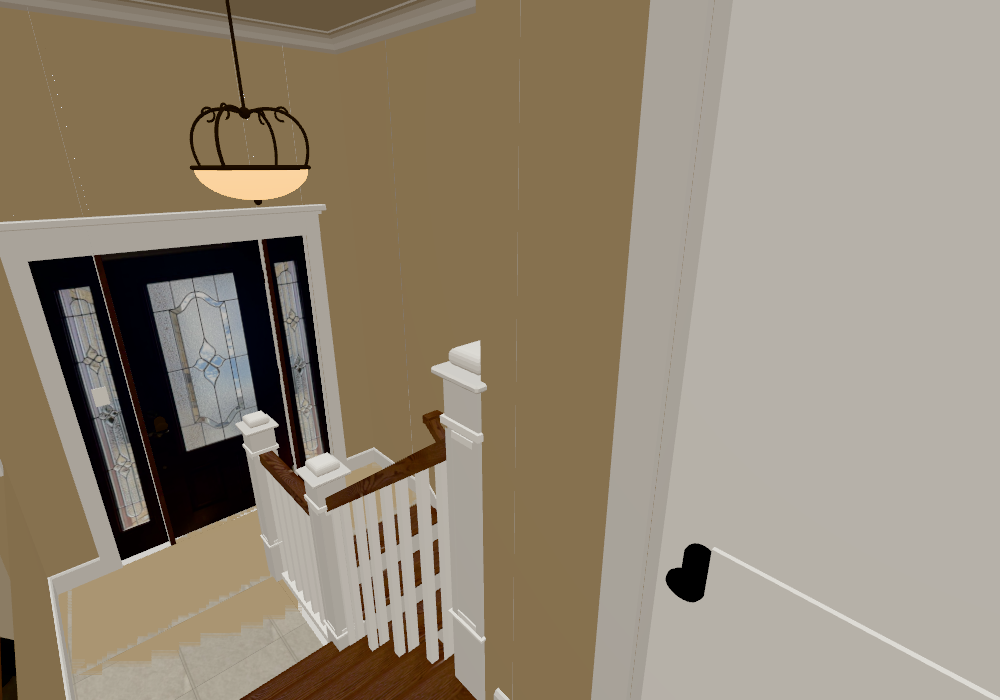
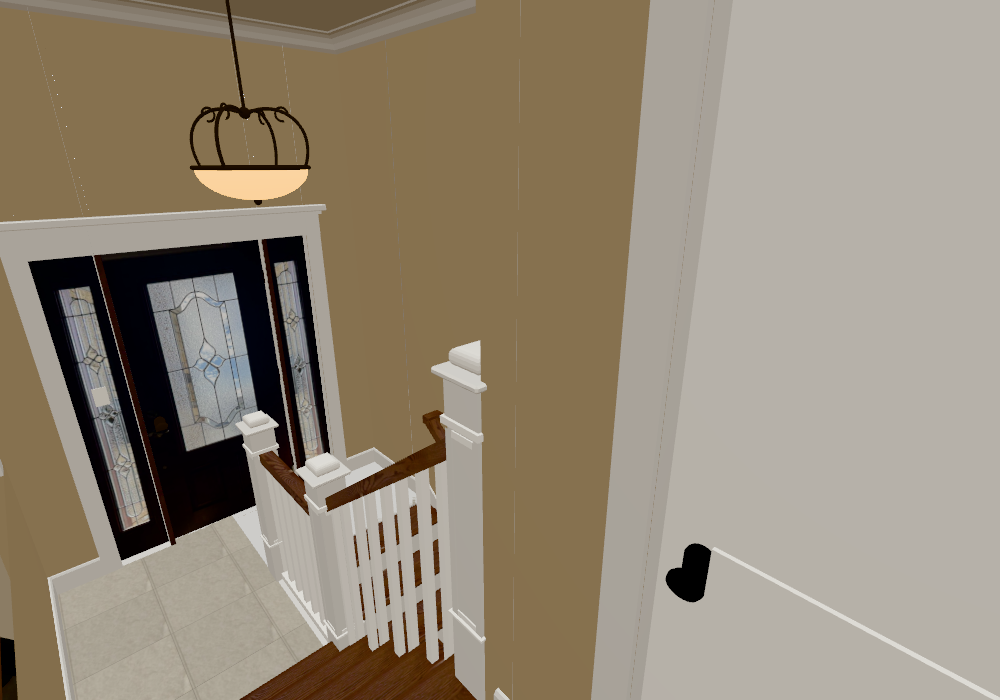
Stair closet: long tiled storage room under the front stairs
The closet under the top flight now runs on under the entry landing to the
front wall (the solid under the landing is cut back to the bottom flight).
Grey 12x12 tile (new tileGrey) with a marble threshold, white walls and
ceilings: the flight's sloped underside, then a flat ceiling under the
landing. A foundation ledge along the front wall, a framed wire-shelving
alcove with a bifold door (one pair folded open), a black steel cabinet
clear of the door swing, and a small white flush dome light (new 'flush'
kind). The knee wall gets a triangular opening at its foot, and the bottom
flight a sloped underside, so storage under that flight shows through.

Walls shared with the stairwell take a new yCuts split so they stay tan
above the landing; the closet is listed before the stairwell in ROOMS so
the space below the landing reads as the closet.

Changed region(s): [[0.062, 0.72, 0.31, 0.96], [0.341, 0.66, 0.434, 0.75]]

diff --git a/js/house.js b/js/house.js
@@ -34,6 +34,7 @@ export function buildHouse() {
   railings(b);
   fixtures(b, lamps);
   kitchen(b);
+  stairCloset(b);
   furniture(b, mirrors, glass);
   wallArt(b);
   exterior(b);
@@ -88,7 +89,7 @@ function walls(b, glass, sliders) {
       const covering = w.ops.filter(op => op.a0 <= mid && op.a1 >= mid);
       let ranges = [w.y.slice()];
       for (const op of covering) ranges = subtract(ranges, op.b0, op.b1);
-      for (const cut of [L.MAIN - 0.1, L.MAIN + 3]) ranges = ranges.flatMap(([s, e]) => (s < cut - 1e-6 && e > cut + 1e-6 ? [[s, cut], [cut, e]] : [[s, e]]));
+      for (const cut of [L.MAIN - 0.1, L.MAIN + 3, ...(w.yCuts || [])]) ranges = ranges.flatMap(([s, e]) => (s < cut - 1e-6 && e > cut + 1e-6 ? [[s, cut], [cut, e]] : [[s, e]]));
       for (const [s, e0] of ranges) {
         if (e0 - s < 1e-3) continue;
         // a free wall end runs on by half its thickness to close the corner; where another wall carries
@@ -470,8 +471,8 @@ function floorsAndCeilings(b, glass) {
   b.poly([[kx, F, L.FU.z1], [28.8, F, L.FU.z1], [28.8, F, L.FD.z1], [kx, F, L.FD.z1]], 'tileLanding', { n: [0, 1, 0] });
   b.poly([[20.8, F, L.FD.z1], [28.8, F, L.FD.z1], [28.8, F, 30], [20.8, F, 30]], 'tileLanding', { n: [0, 1, 0] });
   b.poly([[35, L.MID, -8], [42.2, L.MID, -8], [42.2, L.MID, -4.4], [35, L.MID, -4.4]], 'carpetBeige', { n: [0, 1, 0] });
-  b.poly([[20.8, L.LOW, 19.5], [24.8, L.LOW, 19.5], [24.8, L.LOW, 20], [20.8, L.LOW, 20]], 'carpetBeige', { n: [0, 1, 0] });
-  b.poly([[24.8, L.LOW, 19.5], [28.8, L.LOW, 19.5], [28.8, L.LOW, L.FU.z1], [24.8, L.LOW, L.FU.z1]], 'carpetBeige', { n: [0, 1, 0] });
+  b.poly([[20.8, L.LOW, 19.5], [24.8, L.LOW, 19.5], [24.8, L.LOW, L.FD.z1], [20.8, L.LOW, L.FD.z1]], 'tileGrey', { n: [0, 1, 0] });   // under the bottom flight
+  b.poly([[24.8, L.LOW, 19.5], [28.8, L.LOW, 19.5], [28.8, L.LOW, 29.75], [24.8, L.LOW, 29.75]], 'tileGrey', { n: [0, 1, 0] });   // stair closet
   b.poly([[20.8, L.LOW_CEIL, 19.5], [28.8, L.LOW_CEIL, 19.5], [28.8, L.LOW_CEIL, 20], [20.8, L.LOW_CEIL, 20]], 'ceiling', { n: [0, -1, 0] });
   // exposed edges of the main floor at the stair openings
   b.poly([[20.8, L.LOW_CEIL - 0.05, 20], [24.8, L.LOW_CEIL - 0.05, 20], [24.8, L.MAIN, 20], [20.8, L.MAIN, 20]], 'paint:' + L.PAINT.tan, { n: [0, 0, 1] });
@@ -618,6 +619,7 @@ function switchPlates(b) {
 const SOFFITS = {
   frontUp: z => L.FRONT - 0.7 + (L.FU.z1 - z) / (L.FU.z1 - L.FU.z0) * (L.MAIN - 1.25 - (L.FRONT - 0.7)),
   rearUp: z => L.MID - 0.7 + (z + 4.4) / 4.4 * (L.MAIN - 1.25 - (L.MID - 0.7)),
+  frontDown: z => L.LOW + (z - L.FD.z0 - 1.6) * (L.FRONT - L.LOW) / (L.FD.z1 - L.FD.z0),   // meets the floor under the third step
 };
 // Steps of a flight: tread top, z extent and the edge toward the high end.
 function flightSteps(f) {
@@ -649,7 +651,7 @@ function stairs(b) {
       const zb = za + d;
       const nose = upAtZ1 ? -0.09 : 0.09;          // nosing overhangs toward the low end
       const zFront = upAtZ1 ? za : zb;
-      const base = soffit ? soffit(upAtZ1 ? zb : za) : 0;
+      const base = soffit ? Math.max(0, soffit(upAtZ1 ? zb : za)) : 0;
       b.box(x0, x1, base, top - 0.09, Math.min(za, zb), Math.max(za, zb), riserMat, { skip: ['ny', 'py'], dens: 6 });
       const t0 = Math.min(za, zb, zFront + nose), t1 = Math.max(za, zb, zFront + nose);
       // open side: tread ends run 0.05 past the stringer and show their end grain
@@ -658,8 +660,10 @@ function stairs(b) {
       b.box(tx0, tx1, top - 0.09, top, t0, t1, treadMat, { skip: tSkip, dens: 7, uv: f.finish === 'oak' ? 'face' : undefined, bevel: 0.035 });
     }
     if (soffit) {
-      const zLow = upAtZ1 ? z0 : z1, zHigh = upAtZ1 ? z1 : z0;
-      b.poly([[fx0, soffit(zLow), zLow], [fx1, soffit(zLow), zLow], [fx1, soffit(zHigh), zHigh], [fx0, soffit(zHigh), zHigh]], 'paint:' + L.PAINT.closet, { n: [0, -1, 0] });
+      let zLow = upAtZ1 ? z0 : z1;
+      const zHigh = upAtZ1 ? z1 : z0;
+      if (soffit(zLow) < 0) zLow += (zHigh - zLow) * -soffit(zLow) / (soffit(zHigh) - soffit(zLow));   // from where it meets the floor
+      b.poly([[fx0, soffit(zLow), zLow], [fx1, soffit(zLow), zLow], [fx1, soffit(zHigh), zHigh], [fx0, soffit(zHigh), zHigh]], 'paint:' + (f.under || L.PAINT.closet), { n: [0, -1, 0] });
     }
   }
   // knee walls under the open side of a flight: the wall stops under each riser block (the treads
@@ -689,23 +693,31 @@ function stairs(b) {
     const fl = L.FLIGHTS.find(f => f.id === k.flight);
     const soff = SOFFITS[fl.id];
     const lo = Math.min(fl.h0, fl.h1), hi = Math.max(fl.h0, fl.h1), hiZ = fl.h0 > fl.h1 ? fl.r[2] : fl.r[3];
-    const segs = flightSteps(fl).map(s => ({ za: s.za, zb: s.zb, top: soff(s.upper), band: true }));
+    let segs = flightSteps(fl).map(s => ({ za: s.za, zb: s.zb, top: soff(s.upper), band: true }));
     if (k.z0 < fl.r[2] - 1e-6) segs.push({ za: k.z0, zb: fl.r[2], top: Math.abs(fl.r[2] - hiZ) < 1e-6 ? hi : lo, cap: true });
     if (k.z1 > fl.r[3] + 1e-6) segs.push({ za: fl.r[3], zb: k.z1, top: Math.abs(fl.r[3] - hiZ) < 1e-6 ? hi : lo, cap: true });
-    const T = OPEN_W;
+    const T = OPEN_W, h = k.hole;
+    // a triangular opening at the wall's foot: its top edge rises from h.z0 at the floor and drops back at h.z1
+    const bot = h ? (g, z) => (g.za >= h.z0 - 1e-6 && g.zb <= h.z1 + 1e-6 ? (z - h.z0) * h.slope : 0) : () => 0;
+    if (h) for (const zc of [h.z0, h.z1]) segs = segs.flatMap(g => (zc > g.za + 1e-6 && zc < g.zb - 1e-6 ? [{ ...g, zb: zc }, { ...g, za: zc }] : [g]));
     for (const s of [-1, 1]) {
       const x = k.x + s * T;
       for (const g of segs) {
         const r = roomAt(x + s * 0.3, (g.za + g.zb) / 2, 1);
-        const paint = paintFor(r, 1);
+        const paint = paintFor(r, 1), ba = bot(g, g.za), bb = bot(g, g.zb);
         if (g.band && s === fl.open) {
           const ya = Math.min(soff(g.za) - 0.6, g.top), yb = Math.min(soff(g.zb) - 0.6, g.top);
-          b.poly([[x, 0, g.za], [x, 0, g.zb], [x, yb, g.zb], [x, ya, g.za]], paint, { n: [s, 0, 0] });
+          b.poly([[x, ba, g.za], [x, bb, g.zb], [x, yb, g.zb], [x, ya, g.za]], paint, { n: [s, 0, 0] });
           b.poly([[x, ya, g.za], [x, yb, g.zb], [x, g.top, g.zb], [x, g.top, g.za]], TRIM, { n: [s, 0, 0] });
         } else {
-          b.poly([[x, 0, g.za], [x, 0, g.zb], [x, g.top, g.zb], [x, g.top, g.za]], paint, { n: [s, 0, 0] });
+          b.poly([[x, ba, g.za], [x, bb, g.zb], [x, g.top, g.zb], [x, g.top, g.za]], paint, { n: [s, 0, 0] });
         }
       }
+    }
+    if (h) {
+      const yt = (h.z1 - h.z0) * h.slope, mat = paintFor(roomAt(k.x + 0.5, (h.z0 + h.z1) / 2, 1), 1);
+      b.poly([[k.x - T, 0, h.z0], [k.x + T, 0, h.z0], [k.x + T, yt, h.z1], [k.x - T, yt, h.z1]], mat, { n: [0, -1, h.slope] });
+      b.poly([[k.x - T, 0, h.z1], [k.x + T, 0, h.z1], [k.x + T, yt, h.z1], [k.x - T, yt, h.z1]], mat, { n: [0, 0, -1] });
     }
     for (const g of segs) {
       if (g.cap) b.poly([[k.x - T, g.top, g.za], [k.x + T, g.top, g.za], [k.x + T, g.top, g.zb], [k.x - T, g.top, g.zb]], TRIM, { n: [0, 1, 0] });
@@ -865,6 +877,13 @@ function fixtures(b, lamps) {
         b.prim(new THREE.CylinderGeometry(0.11, 0.11, 0.01, 20), 'lampGlow', hx, hy + dy * 0.23, z + dz * 0.23, 0, { rx: -3 * Math.PI / 4, bake: false });
         lamps.push({ x: hx, y: hy + dy * 0.53, z: z + dz * 0.53, r: 0.12, kind: 'omni', I: 6 });
       }
+    } else if (f.kind === 'flush') {
+      // small white flush dome (11")
+      b.prim(new THREE.CylinderGeometry(0.46, 0.46, 0.04, 28), 'plate', x, y - 0.02, z);
+      const g = new THREE.SphereGeometry(0.4, 24, 8, 0, Math.PI * 2, Math.PI / 2, Math.PI / 2);
+      g.scale(1, 0.45, 1);
+      b.prim(g, 'frosted', x, y - 0.04, z, 0, { bake: false });
+      lamps.push({ x, y: y - 0.3, z, r: 0.25, kind: 'omni', I: 5 });
     } else if (f.kind === 'dome') {
       b.prim(new THREE.CylinderGeometry(0.62, 0.62, 0.05, 32), 'bronze', x, y - 0.025, z);
       const g = new THREE.SphereGeometry(0.58, 32, 12, 0, Math.PI * 2, Math.PI / 2, Math.PI / 2);
@@ -934,6 +953,49 @@ function fixtures(b, lamps) {
       }
     }
   }
+}
+
+// ========================================================= stair closet ===
+// Storage closet under the front stairs: runs from its door under the top flight and on under the entry
+// landing to the front wall. White walls, grey tile, a flat ceiling under the landing, a foundation ledge
+// along the front wall, a wire-shelving alcove with a bifold door, a black steel cabinet, and a triangular
+// opening (in the knee wall, see stairs()) into more storage under the bottom flight.
+function stairCloset(b) {
+  const WH = 'paint:' + L.PAINT.storage, C = L.FRONT - 0.7, x0 = 24.8 + OPEN_W, xE = 28.55;
+  b.poly([[x0, C, L.FU.z1], [xE, C, L.FU.z1], [xE, C, 29.75], [x0, C, 29.75]], WH, { n: [0, -1, 0] });            // flat ceiling
+  // white linings where the stairwell's walls run on above the landing height (their faces are tan there)
+  const zm = L.FU.z1 - (L.FRONT - C) / ((L.MAIN - 1.25 - C) / (L.FU.z1 - L.FU.z0));                             // soffit at FRONT
+  b.poly([[xE - 0.01, L.FRONT, 19.5], [xE - 0.01, L.FRONT, zm], [xE - 0.01, L.MAIN - 1.25, L.FU.z0], [xE - 0.01, L.MAIN - 1.25, 19.5]], WH, { n: [-1, 0, 0] });
+  b.poly([[xE - 0.01, L.MAIN - 1.25, 19.5], [xE - 0.01, L.MAIN - 1.25, L.FU.z0], [xE - 0.01, L.LOW_CEIL, L.FU.z0], [xE - 0.01, L.LOW_CEIL, 19.5]], WH, { n: [-1, 0, 0] });
+  b.poly([[x0, L.LOW + 6.8, 19.71], [xE, L.LOW + 6.8, 19.71], [xE, L.LOW_CEIL, 19.71], [x0, L.LOW_CEIL, 19.71]], WH, { n: [0, 0, 1] });
+  const fd = z => L.LOW + (z - L.FD.z0 - 1.6) * (L.FRONT - L.LOW) / (L.FD.z1 - L.FD.z0), zf = L.FD.z0 + 1.6;       // under the bottom flight
+  b.poly([[21.01, 0, zf], [21.01, 0, L.FD.z1], [21.01, fd(L.FD.z1), L.FD.z1]], WH, { n: [1, 0, 0] });
+  // marble threshold in the doorway
+  b.box(25.5, 28.1, L.LOW, L.LOW + 0.04, 19.28, 19.72, 'tileMarble', { skip: ['ny'], dens: 8 });
+  // foundation ledge along the front wall
+  b.box(x0, xE, L.LOW, L.LOW + 4.5, 28.95, 29.75, WH, { skip: ['ny', 'pz', 'nx', 'px'], collide: true });
+  // wire-shelving alcove: framed box against the east wall, open to the west
+  const za = 24.9, zb = 27.3, ax = 27.2, hy = 5.45;
+  b.box(ax, xE, 0, C, za, za + 0.1, WH, { skip: ['px', 'ny', 'py'] });
+  b.box(ax, xE, 0, C, zb - 0.1, zb, WH, { skip: ['px', 'ny', 'py'] });
+  b.box(ax, xE, hy, C, za + 0.1, zb - 0.1, WH, { skip: ['px', 'py'] });
+  for (const [z0, z1] of [[za - 0.05, za + 0.14], [zb - 0.14, zb + 0.05]]) b.box(ax - 0.05, ax, 0, hy + 0.1, z0, z1, TRIM, { skip: ['px', 'ny'], dens: 8 });
+  b.box(ax - 0.05, ax, hy - 0.1, hy + 0.1, za + 0.14, zb - 0.14, TRIM, { skip: ['px'], dens: 8 });
+  for (const y of [1.0, 2.2, 3.4, 4.6]) {
+    for (const x of [ax + 0.12, xE - 0.04]) b.mbox(x - 0.012, x + 0.012, y - 0.03, y + 0.012, za + 0.1, zb - 0.1, 'plate');
+    for (let z = za + 0.16; z < zb - 0.12; z += 0.1) b.mbox(ax + 0.12, xE - 0.04, y - 0.006, y + 0.006, z - 0.006, z + 0.006, 'plate');
+  }
+  b.collider(ax - 0.05, xE, 0, C, za - 0.05, zb + 0.05);
+  // bifold: the south pair closed in the opening, the north pair folded open against the jamb
+  const leaf = (x0l, x1l, z0l, z1l) => b.box(x0l, x1l, 0.05, hy - 0.12, z0l, z1l, 'doorWhite', { dens: 7, bevel: 0.01 });
+  leaf(ax + 0.02, ax + 0.1, 26.12, 26.64); leaf(ax + 0.02, ax + 0.1, 26.66, zb - 0.16);
+  leaf(ax - 0.5, ax + 0.06, za + 0.16, za + 0.24); leaf(ax - 0.5, ax + 0.06, za + 0.26, za + 0.34);
+  b.prim(new THREE.SphereGeometry(0.035, 10, 8), 'nickel', ax - 0.01, 3.0, 26.2);
+  // tall black steel cabinet on the east wall, beyond the door's swing
+  const cz0 = 22.4, cz1 = cz0 + 1.3, cx = xE - 1.2;
+  b.box(cx, xE, L.LOW, L.LOW + 4.5, cz0, cz1, 'tvBody', { skip: ['px', 'ny'], collide: true, bevel: 0.015 });
+  b.mbox(cx - 0.005, cx + 0.002, 0.1, 4.4, (cz0 + cz1) / 2 - 0.008, (cz0 + cz1) / 2 + 0.008, 'paint:#050505');
+  for (const dz of [-0.12, 0.12]) b.mbox(cx - 0.05, cx, 2.5, 2.9, (cz0 + cz1) / 2 + dz - 0.015, (cz0 + cz1) / 2 + dz + 0.015, 'nickel');
 }
 
 // =============================================================== kitchen ===

diff --git a/js/layout.js b/js/layout.js
@@ -43,6 +43,7 @@ export const PAINT = {
   halfBath: '#ccbea5',
   garage: '#e6e4de',
   closet: '#e2ddd3',
+  storage: '#ecebe8',     // closet under the front stairs
   ceiling: '#f2f0eb',
   trim: '#f4f2ec',
   siding: '#d9d3c6',
@@ -72,6 +73,9 @@ export const ROOMS = [
   room('cl3', 'Bedroom 3 closet', [MAIN, MAIN_CEIL], [[14.2, 18.9, 15.6, 18.2]], 'wood', PAINT.closet),
   room('lc', 'Linen closet', [MAIN, MAIN_CEIL], [[18.9, 20.8, 15.6, 18.2]], 'wood', PAINT.closet),
   room('upcl', 'Coat closet', [MAIN, MAIN_CEIL], [[20.8, 24.8, 15.6, 20]], 'wood', PAINT.closet),
+  // storage closet under the front stairs: under the top flight and on under the entry landing to the front
+  // wall (listed before the stairwell so the space below the landing reads as the closet)
+  room('stcl', 'Closet', [LOW, FRONT], [[24.8, 28.55, 19.5, 29.75]], 'tileGrey', PAINT.storage),
   // two-storey stairwells
   room('foyer', 'Front entry & stairs', [LOW, MAIN_CEIL], [[20.8, 28.8, 19.5, 30]], 'tileLanding', PAINT.tan, { crown: true, crownRects: [[20.8, 28.8, 20, 30]],
     baseY: FRONT, baseRects: [[20.8, 24.8, FD.z1, 30], [24.8, 28.8, FU.z1, 30]] }),
@@ -84,7 +88,6 @@ export const ROOMS = [
   room('clN', 'Closet', [LOW, LOW_CEIL], [[25.2, 28.8, 0, 2.3]], 'carpetBeige', PAINT.closet),
   room('util', 'Utility', [LOW, LOW_CEIL], [[25.2, 28.8, HB_HALL, 14.5]], 'concrete', PAINT.garage),
   room('play', 'Playroom', [LOW, LOW_CEIL], [[28.8, 45, 0, 35], [25.2, 28.8, 2.3, HB_HALL], [20.8, 28.8, 14.5, 19.5]], 'carpetBeige', PAINT.lower, { crown: true }),
-  room('stcl', 'Closet', [LOW, MAIN], [[24.8, 28.8, 19.5, FU.z1]], 'carpetBeige', PAINT.closet),
   room('rcl', 'Closet', [LOW, MAIN], [[35, 38.9, -4.4, 0]], 'carpetBeige', PAINT.closet),
 ];
 
@@ -108,7 +111,7 @@ export const WALLS = [
     hiWin(4.55, 7.35), hiWin(13.6, 16.4)], EXT),
   wz(20.8, GARAGE_Z, 35, ALL, [], { ...EXT, t: WALL_T }),      // same thickness as the foyer wall it continues
   wx(30, 20.85, 28.8, ALL, [door(23.3, 26.3, FRONT, { unit: [22.25, 27.35], mullions: [[23.2, 23.3], [26.3, 26.4]] }), win(22.25, 23.2, FRONT, FRONT + DOOR_H + 0.05, { sidelight: true }),
-    win(26.4, 27.35, FRONT, FRONT + DOOR_H + 0.05, { sidelight: true })], EXT),
+    win(26.4, 27.35, FRONT, FRONT + DOOR_H + 0.05, { sidelight: true })], { ...EXT, yCuts: [FRONT] }),   // yCuts: split the faces there (closet below the landing)
   wz(28.8, 30, 35, ALL, [], EXT),
   wx(35, 28.8, 45, LO, [loWin(31.8, 34.7), loWin(34.7, 38.9), loWin(38.9, 41.6)], EXT),
   wx(35, 28.8, 31.2, HI, [], EXT), wx(35, 43.5, 45, HI, [], EXT),
@@ -155,7 +158,7 @@ export const WALLS = [
   wz(24.8, 15.6, 20, HI, [door(16.1, 18.6, MAIN)]),          // coat closet: door faces the dining room
   wx(20, 20.8, 24.8, HI),                                  // ...and a solid wall faces the stairs
   wz(20.8, 20, GARAGE_Z, ALL),                             // stairwell west (garage / bedroom 3 side)
-  wz(28.8, 19.5, 30, [0, MAIN + 0.1], [], { t: EXT_T }),   // stairwell east below the living-room railing (flush with the front wall)
+  wz(28.8, 19.5, 30, [0, MAIN + 0.1], [], { t: EXT_T, yCuts: [FRONT] }),   // stairwell east below the living-room railing (flush with the front wall)
   // ---- lower level interior (1st floor plan) ----
   wz(18.3, 0, 14.6, LO),
   wx(4.5, 18.3, 25.2, LO),
@@ -173,7 +176,8 @@ export const WALLS = [
 
 // Solid half-walls beside stair flights (top follows the higher flight), with a balustrade on top.
 export const KNEEWALLS = [
-  { x: 24.8, z0: 19.5, z1: FD.z1, flight: 'frontUp' },      // carries on beside the landing to the top of the bottom flight
+  { x: 24.8, z0: 19.5, z1: FD.z1, flight: 'frontUp',       // carries on beside the landing to the top of the bottom flight;
+    hole: { z0: 20.5, z1: 26, slope: (FRONT - LOW) / (FD.z1 - FD.z0) } },   // a triangular opening at its foot, top edge with the bottom flight
   { x: 38.9, z0: -4.4, z1: 0, flight: 'rearUp', closed: true },
 ];
 
@@ -257,8 +261,8 @@ export const FLOORS = [
   { r: [35.6, 39.4, -9.4, -8], h: MID },
 ];
 export const FLIGHTS = [
-  { id: 'frontUp', r: [24.8, 28.8, FU.z0, FU.z1], h0: MAIN, h1: FRONT, risers: 5, finish: 'oak', open: -1 },   // 4 treads
-  { id: 'frontDown', r: [20.8, 24.8, FD.z0, FD.z1], h0: LOW, h1: FRONT, risers: 11, finish: 'oak' },            // 10 treads
+  { id: 'frontUp', r: [24.8, 28.8, FU.z0, FU.z1], h0: MAIN, h1: FRONT, risers: 5, finish: 'oak', open: -1, under: PAINT.storage },   // 4 treads
+  { id: 'frontDown', r: [20.8, 24.8, FD.z0, FD.z1], h0: LOW, h1: FRONT, risers: 11, finish: 'oak', under: PAINT.storage },   // 10 treads; storage under it
   { id: 'frontStoop', r: [22.6, 27, 31.4, 31.4 + 11 * 0.92], h0: FRONT, h1: LOW, risers: 11, finish: 'stone', exterior: true },
   { id: 'rearUp', r: [35, 38.9, -4.4, 0], h0: MID, h1: MAIN, risers: 8, finish: 'carpet' },
   { id: 'rearDown', r: [38.9, 42.2, -4.4, 0], h0: MID, h1: LOW, risers: 8, finish: 'carpet' },
@@ -266,8 +270,7 @@ export const FLIGHTS = [
 ];
 // Solid masses: under landings and closed-off space (b: x0,x1,y0,y1,z0,z1)
 export const SOLIDS = [
-  { b: [24.8, 28.8, 0, FRONT, FU.z1, FD.z1], paint: PAINT.tan },
-  { b: [20.8, 28.8, 0, FRONT, FD.z1, 30], paint: PAINT.tan },
+  { b: [20.8, 25.0, 0, FRONT, FD.z1, 30], paint: PAINT.storage },       // under the landing west of the stair closet
   { b: [35, 42.2, 0, MID, -8, -4.4], paint: PAINT.tan },
   { b: [42.2, 45, 0, MID, -8, -4.4], paint: PAINT.tan },
   { b: [42.0, 45, 0, MID, -4.4, -3.3], paint: PAINT.tan },
@@ -283,12 +286,14 @@ export const SKYLIGHTS = [[21.7, 24.1, 7.8, 10.2], [36.6, 40.4, -6.8, -4.9]];   
 
 // ------------------------------------------------------------- lighting ----
 // Light fixtures (all switched on for the tour). kind: can | dome | chandelier | pendant | shop | semiflush |
-// wellcan (can in a skylight well's side face) | track (ceiling track with spot heads) | fan (exhaust grille, no light)
+// wellcan (can in a skylight well's side face) | track (ceiling track with spot heads) | fan (exhaust grille, no light) |
+// flush (small white flush dome)
 const can = (x, z, y, I) => ({ kind: 'can', x, z, y, I });
 export const FIXTURES = [
   // playroom recessed lights: two rows of six down the long room; lower halls
   ...[32.85, 40.95].flatMap(x => [2.9, 8.75, 14.6, 20.4, 26.25, 32.1].map(z => can(x, z, LOW_CEIL))),
   { kind: 'semiflush', x: 24.8, z: 17.0, y: LOW_CEIL },                           // lower hall, in the middle (photo 49)
+  { kind: 'flush', x: 26.7, z: 27.5, y: FRONT - 0.7 },                            // stair closet: small white dome on the flat ceiling
   can(27, (2.3 + HB_HALL) / 2, LOW_CEIL),
   can(21.75, 7.0, LOW_CEIL, 24), can(21.75, 12.0, LOW_CEIL, 24),                      // laundry: two high hats on the centreline, door to back wall
   { kind: 'dome', x: 21.7, z: 2.2, y: LOW_CEIL },

diff --git a/js/materials.js b/js/materials.js
@@ -9,6 +9,7 @@ const DEFS = {
   tileMarble: { map: 'tile_marble.jpg', normalMap: 'tile_marble_normal.jpg', roughnessMap: 'tile_marble_rough.jpg', repeat: 4, roughness: 0.9 },
   tileWall: { map: 'tile_marble.jpg', normalMap: 'tile_marble_normal.jpg', roughnessMap: 'tile_marble_rough.jpg', repeat: 4, roughness: 0.6 },
   tileKitchen: { map: 'tile_kitchen.jpg', normalMap: 'tile_kitchen_normal.jpg', roughnessMap: 'tile_kitchen_rough.jpg', repeat: 4, roughness: 0.9 },
+  tileGrey: { map: 'tile_kitchen.jpg', normalMap: 'tile_kitchen_normal.jpg', roughnessMap: 'tile_kitchen_rough.jpg', repeat: 4, roughness: 0.9, color: '#c3c6ca' },   // stair closet porcelain
   tileLanding: { map: 'tile_landing.jpg', normalMap: 'tile_landing_normal.jpg', roughnessMap: 'tile_landing_rough.jpg', repeat: 3, roughness: 1 },
   tileBath2: { map: 'tile_bath2.jpg', normalMap: 'tile_bath2_normal.jpg', roughnessMap: 'tile_bath2_rough.jpg', repeat: 4, roughness: 1 },
   carpetBeige: { map: 'carpet_beige.jpg', normalMap: 'carpet_beige_normal.jpg', repeat: 2, roughness: 1, normalScale: 0.8 },
